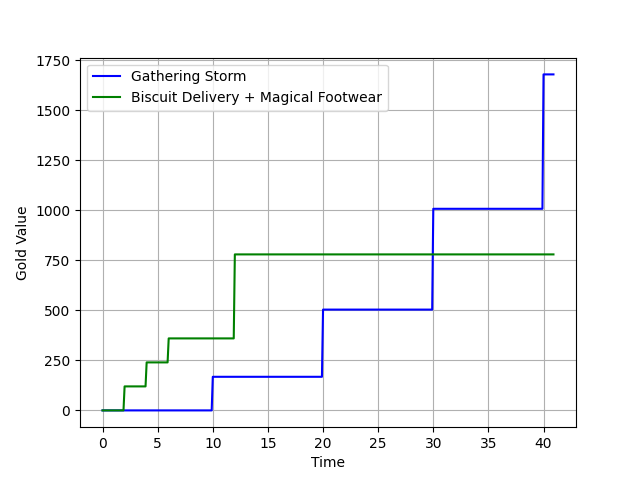
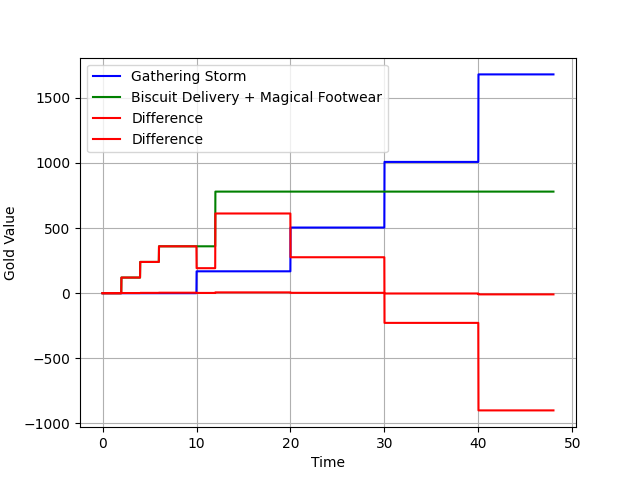
Trying to find better ways to describe difference of value

diff --git a/Gathering_Storm_VS_Biscuits_and_Magical_Boots.py b/Gathering_Storm_VS_Biscuits_and_Magical_Boots.py
@@ -51,21 +51,40 @@ def biscuit_delivery_gold_value(time):
             
     return x
 
-time = np.arange(0.0,41.0,0.1)
+def area(x, dt):
+    a = np.zeros_like(x)
+    for i in range(len(x)):
+        if i == 0:
+            pass
+        else:
+            a[i] = (x[i]*dt + a[i-1])
+
+    return a
+
+deltatime = 0.01
+time = np.arange(0.0,50,deltatime)
 
 gold_value_of_GS = AD_gold_value(gathering_storm_AD(time))
 gold_value_of_BD = biscuit_delivery_gold_value(time)
 gold_value_of_MF = magical_footwear_gold_value(time)
+difference = gold_value_of_MF + gold_value_of_BD - gold_value_of_GS
+difference_area = area(difference, deltatime)/time
 
-plt.plot(time, gold_value_of_GS,
-         color = "blue",
-         label = "Gathering Storm")
-plt.plot(time, gold_value_of_BD + gold_value_of_MF,
-         color = "Green",
-         label = "Biscuit Delivery + Magical Footwear")
+# plt.plot(time, gold_value_of_GS,
+#          color = "blue",
+#          label = "Gathering Storm")
+# plt.plot(time, gold_value_of_BD + gold_value_of_MF,
+#          color = "Green",
+#          label = "Biscuit Delivery + Magical Footwear")
+plt.plot(time, difference,
+         color = "Red",
+         label = "Difference")
+# plt.plot(time, difference_area,
+#          color = "Red",
+#          label = "Difference Area")
 plt.xlabel("Time")
-plt.ylabel("Gold Value")
+plt.ylabel("(Gold * Time)")
 plt.grid()
 plt.legend()
-plt.savefig('figures/gathering_storm_vs_biscuits_and_magical_boots')
+# plt.savefig('figures/gathering_storm_vs_biscuits_and_magical_boots')
 plt.show()
